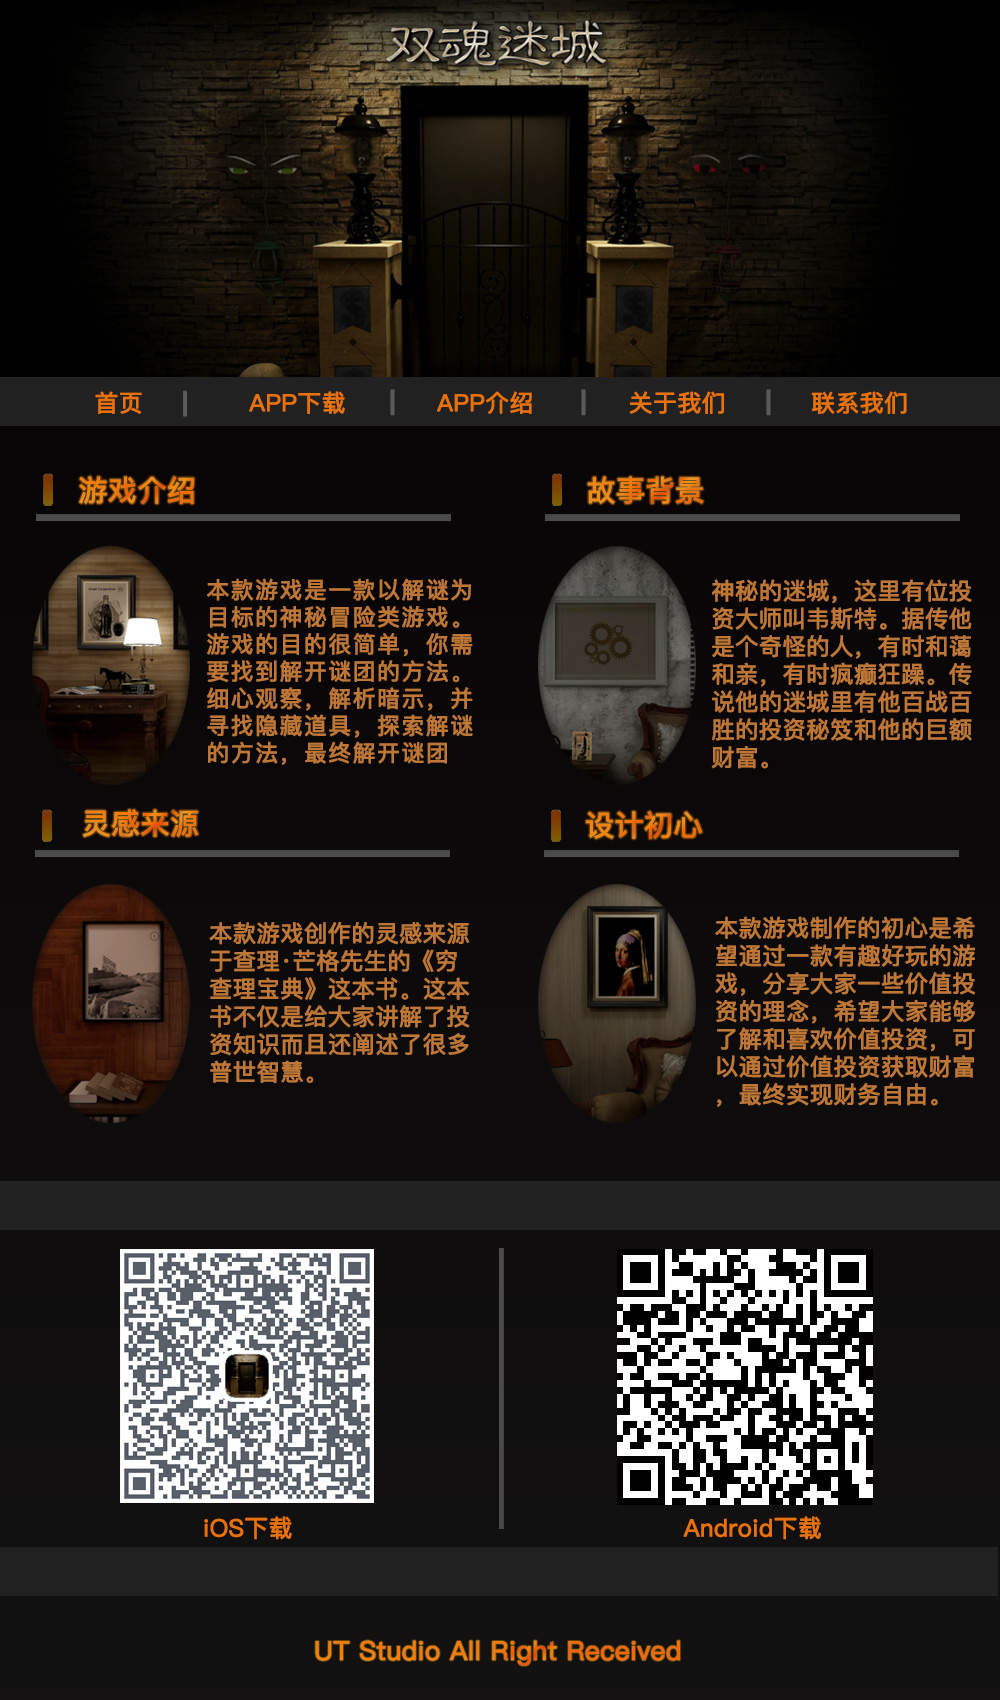
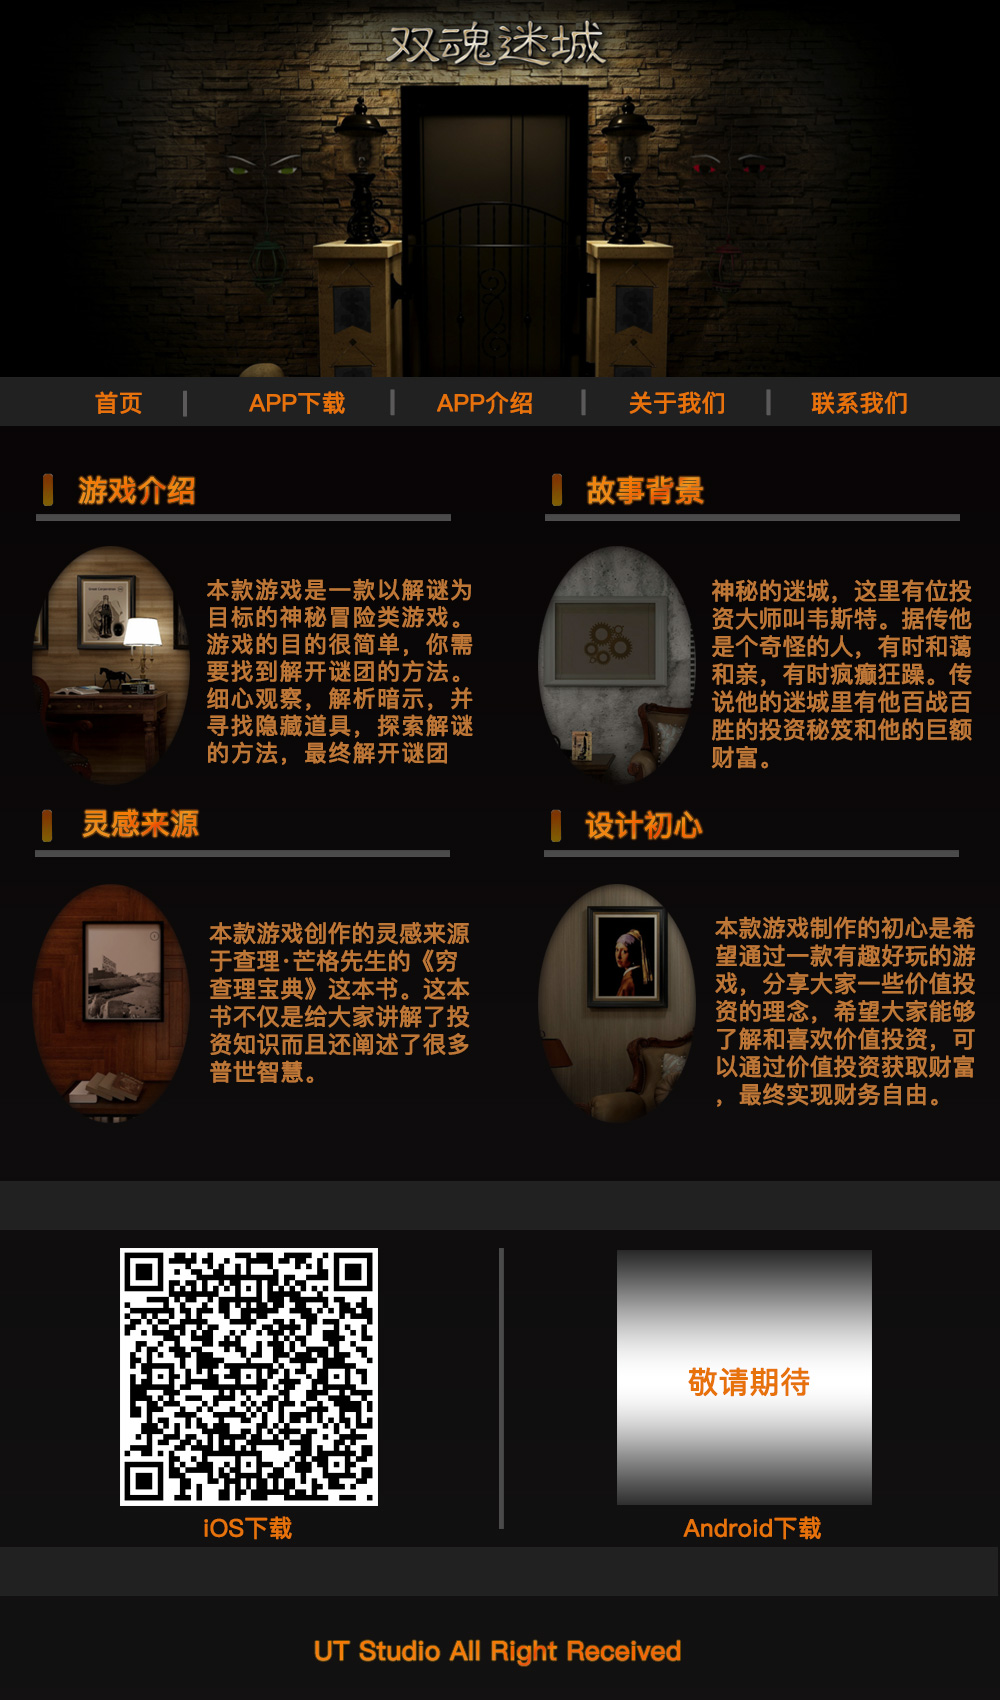
Add files via upload

Changed region(s): [[0.124, 0.7171, 0.403, 0.9041], [0.62, 0.7171, 0.899, 0.9041]]

diff --git a/index2.html b/index2.html
@@ -26,7 +26,7 @@ body {
     <table width="1000" border="0" align="center" cellpadding="0" cellspacing="0">
       <tbody>
         <tr>
-          <th height="1700" bgcolor="#FFFFFF" scope="col"><img src="table_bg.jpg" width="1000" height="1700" alt=""/>
+          <th height="1700" bgcolor="#FFFFFF" scope="col"><img src="table_bg2.jpg" width="1000" height="1700" alt=""/>
             <table width="1000" border="0" cellspacing="0" cellpadding="0">
               <tbody>
                 <tr> </tr>
